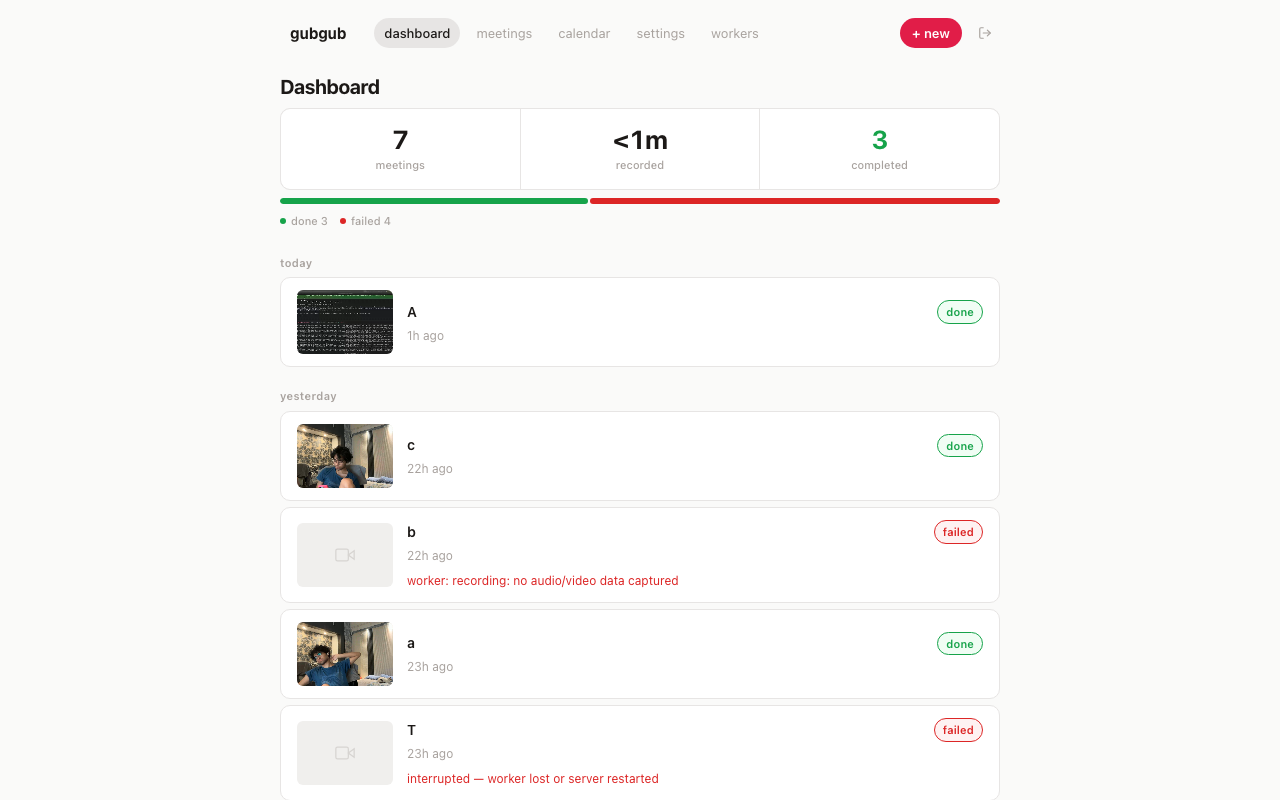
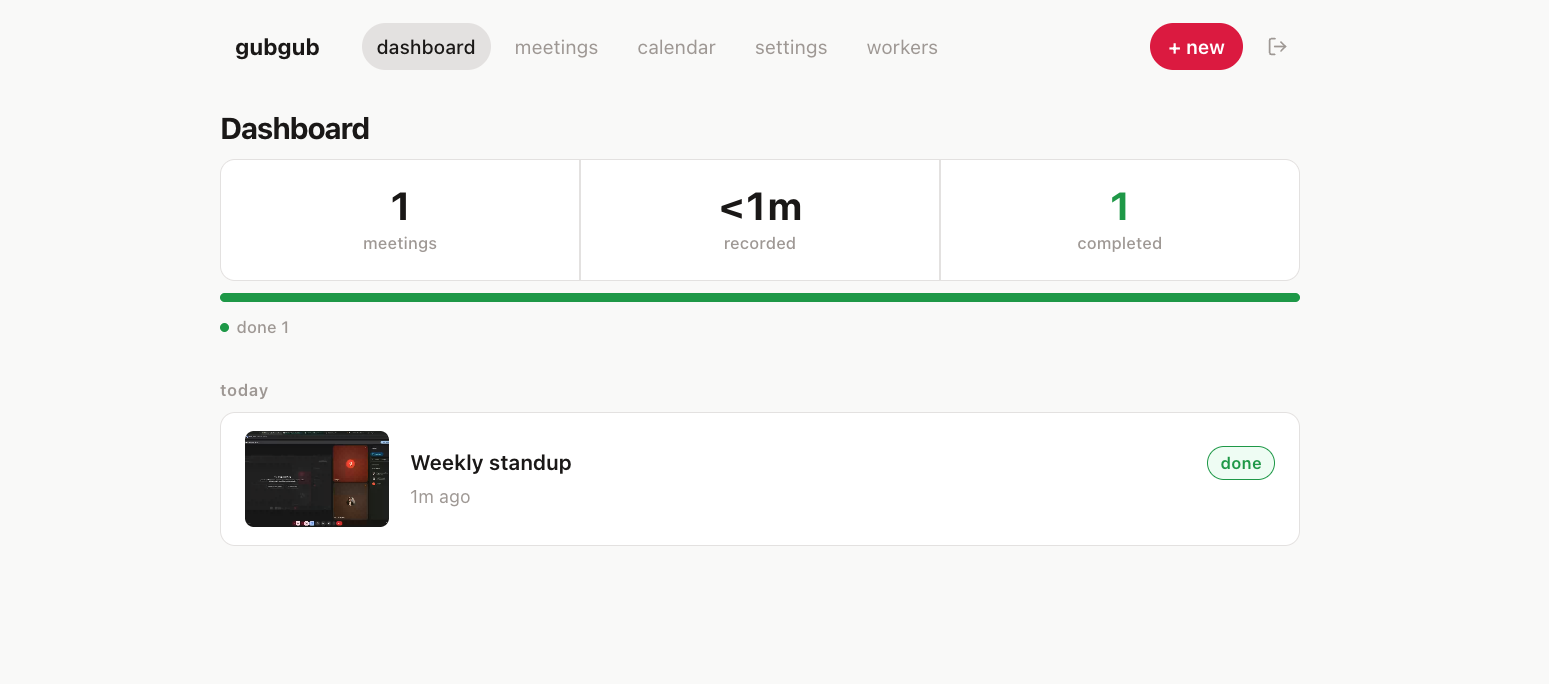
fixes

diff --git a/www/routes/index.tsx b/www/routes/index.tsx
@@ -94,87 +94,6 @@ export default function Landing() {
                 </div>
               </div>
             </div>
-
-            {/* feature screenshots row */}
-            <div class="showcase-features">
-              <div class="showcase-card">
-                <div class="browser-frame browser-sm">
-                  <div class="browser-bar">
-                    <div class="browser-dots">
-                      <span />
-                      <span />
-                      <span />
-                    </div>
-                    <div class="browser-url">
-                      <span>/meetings/...</span>
-                    </div>
-                  </div>
-                  <div class="browser-content">
-                    <img
-                      src="/screenshots/meeting.png"
-                      alt="Meeting recording and transcript"
-                      loading="lazy"
-                    />
-                  </div>
-                </div>
-                <h3>Recordings &amp; Transcripts</h3>
-                <p>
-                  Watch the recording, read the transcript with timestamps, and review the AI summary.
-                </p>
-              </div>
-              <div class="showcase-card">
-                <div class="browser-frame browser-sm">
-                  <div class="browser-bar">
-                    <div class="browser-dots">
-                      <span />
-                      <span />
-                      <span />
-                    </div>
-                    <div class="browser-url">
-                      <span>/calendar</span>
-                    </div>
-                  </div>
-                  <div class="browser-content">
-                    <img
-                      src="/screenshots/calendar.png"
-                      alt="Calendar view"
-                      loading="lazy"
-                    />
-                  </div>
-                </div>
-                <h3>Calendar Integration</h3>
-                <p>
-                  Connect Google Calendar. See upcoming meetings and start
-                  recording with one click.
-                </p>
-              </div>
-              <div class="showcase-card">
-                <div class="browser-frame browser-sm">
-                  <div class="browser-bar">
-                    <div class="browser-dots">
-                      <span />
-                      <span />
-                      <span />
-                    </div>
-                    <div class="browser-url">
-                      <span>/workers</span>
-                    </div>
-                  </div>
-                  <div class="browser-content">
-                    <img
-                      src="/screenshots/workers.png"
-                      alt="Worker management"
-                      loading="lazy"
-                    />
-                  </div>
-                </div>
-                <h3>Worker Management</h3>
-                <p>
-                  Start, stop, and monitor recording workers. Live-stream logs
-                  in real time.
-                </p>
-              </div>
-            </div>
           </section>
 
 

diff --git a/www/islands/SettingsForm.tsx b/www/islands/SettingsForm.tsx
@@ -97,7 +97,7 @@ export default function SettingsForm(
           ? (
             <div class="flex-between">
               <div>
-                <span class="text-sm">Signed in as</span>
+                <span class="text-sm">Signed in as </span>
                 <strong class="text-sm">{googleStatus.email}</strong>
               </div>
               <button
